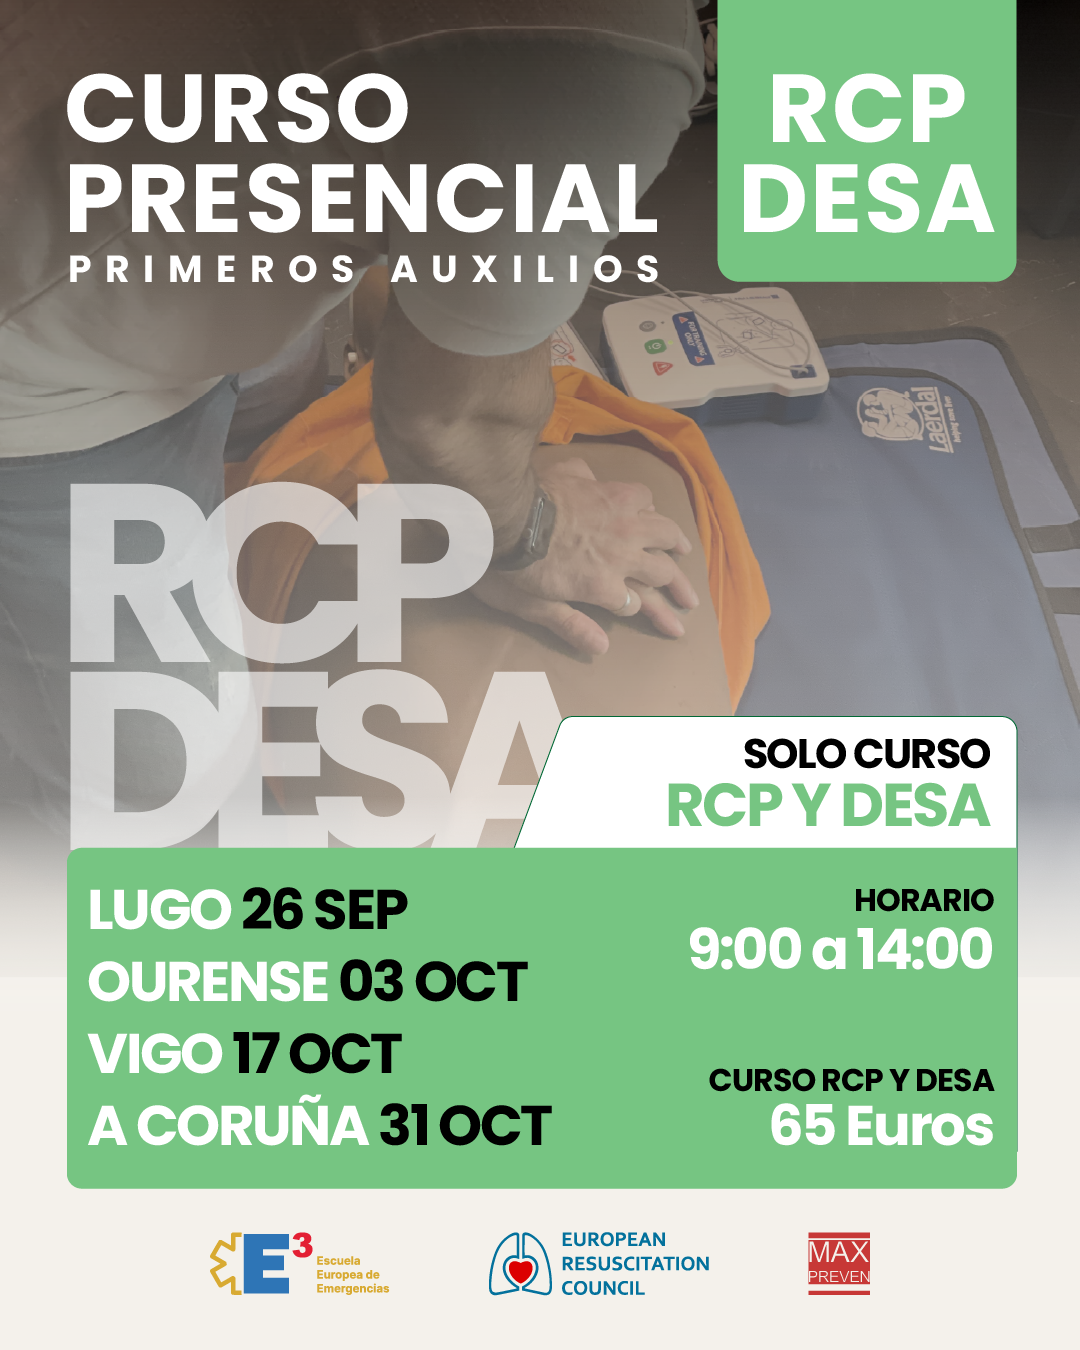
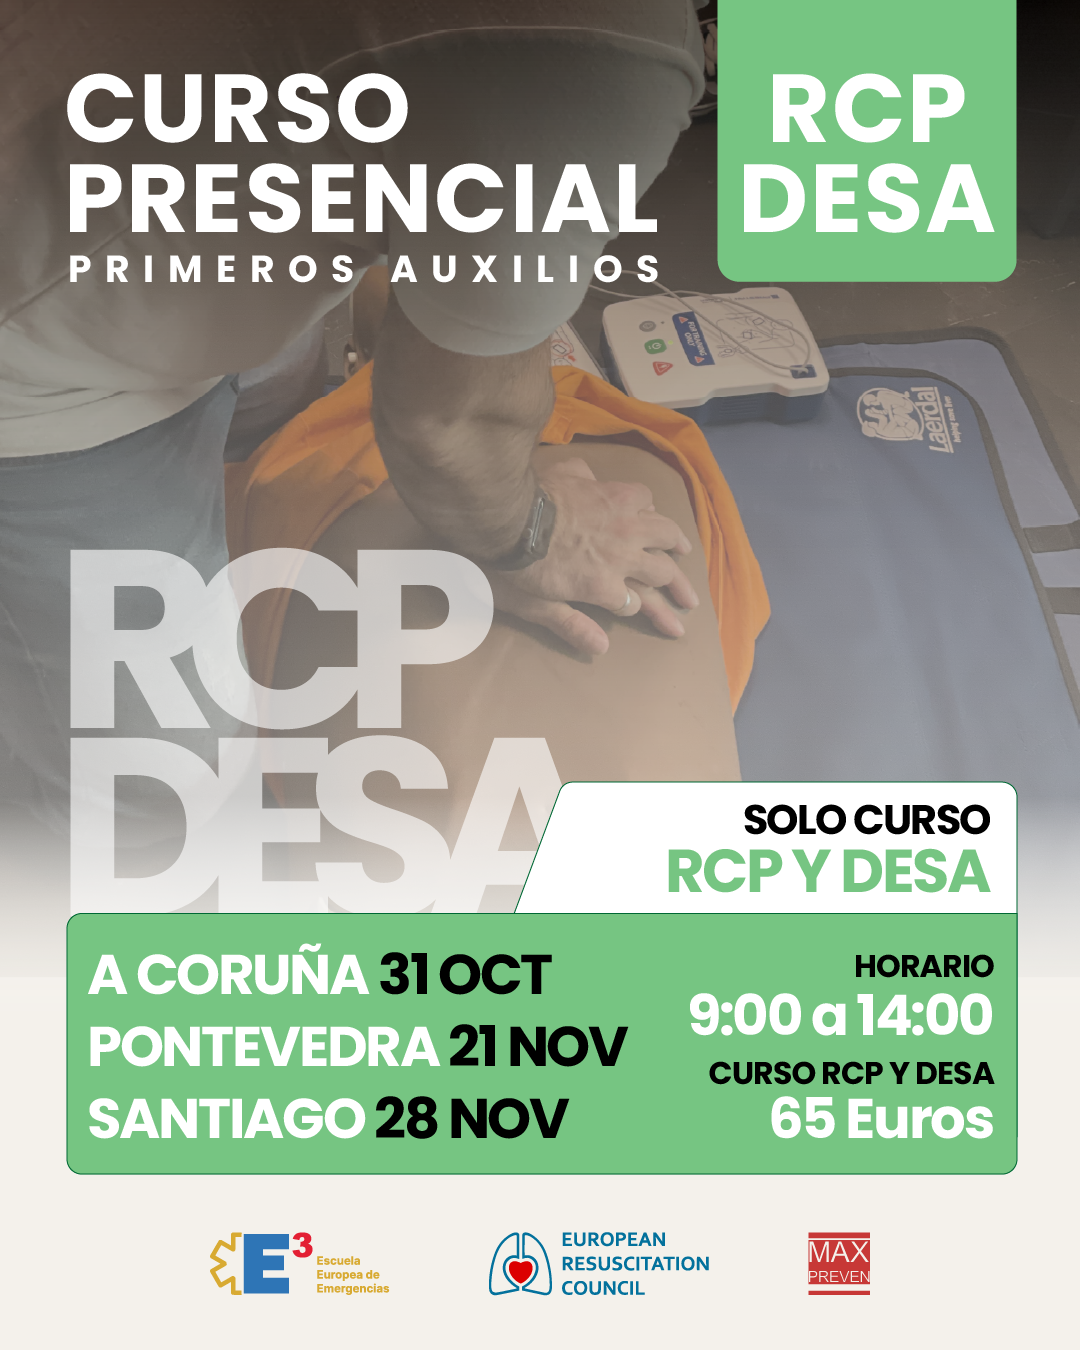
Update the website with this (6adc9eb6300155e84539006b)

Changed region(s): [[0.0611, 0.3422, 0.9472, 0.9022]]

diff --git a/index.html b/index.html
@@ -406,8 +406,8 @@
         <div class="course-info">
           <div class="link-content">
             <span class="link-title">RCP y DESA</span>
-            <span class="course-date">26 sep · 3, 17 y 31 oct</span>
-            <span class="course-place">Lugo · Ourense · Vigo · A Coruña</span>
+            <span class="course-date">31 oct · 21 nov · 28 nov</span>
+            <span class="course-place">A Coruña · Pontevedra · Santiago</span>
             <span class="course-cta">Inscripción</span>
           </div>
         </div>
@@ -418,8 +418,8 @@
         <div class="course-info">
           <div class="link-content">
             <span class="link-title">Stop the Bleed</span>
-            <span class="course-date">26 sep · 3, 17 y 31 oct</span>
-            <span class="course-place">Lugo · Ourense · Vigo · A Coruña</span>
+            <span class="course-date">31 oct · 21 nov · 28 nov</span>
+            <span class="course-place">A Coruña · Pontevedra · Santiago</span>
             <span class="course-cta">Inscripción</span>
           </div>
         </div>
